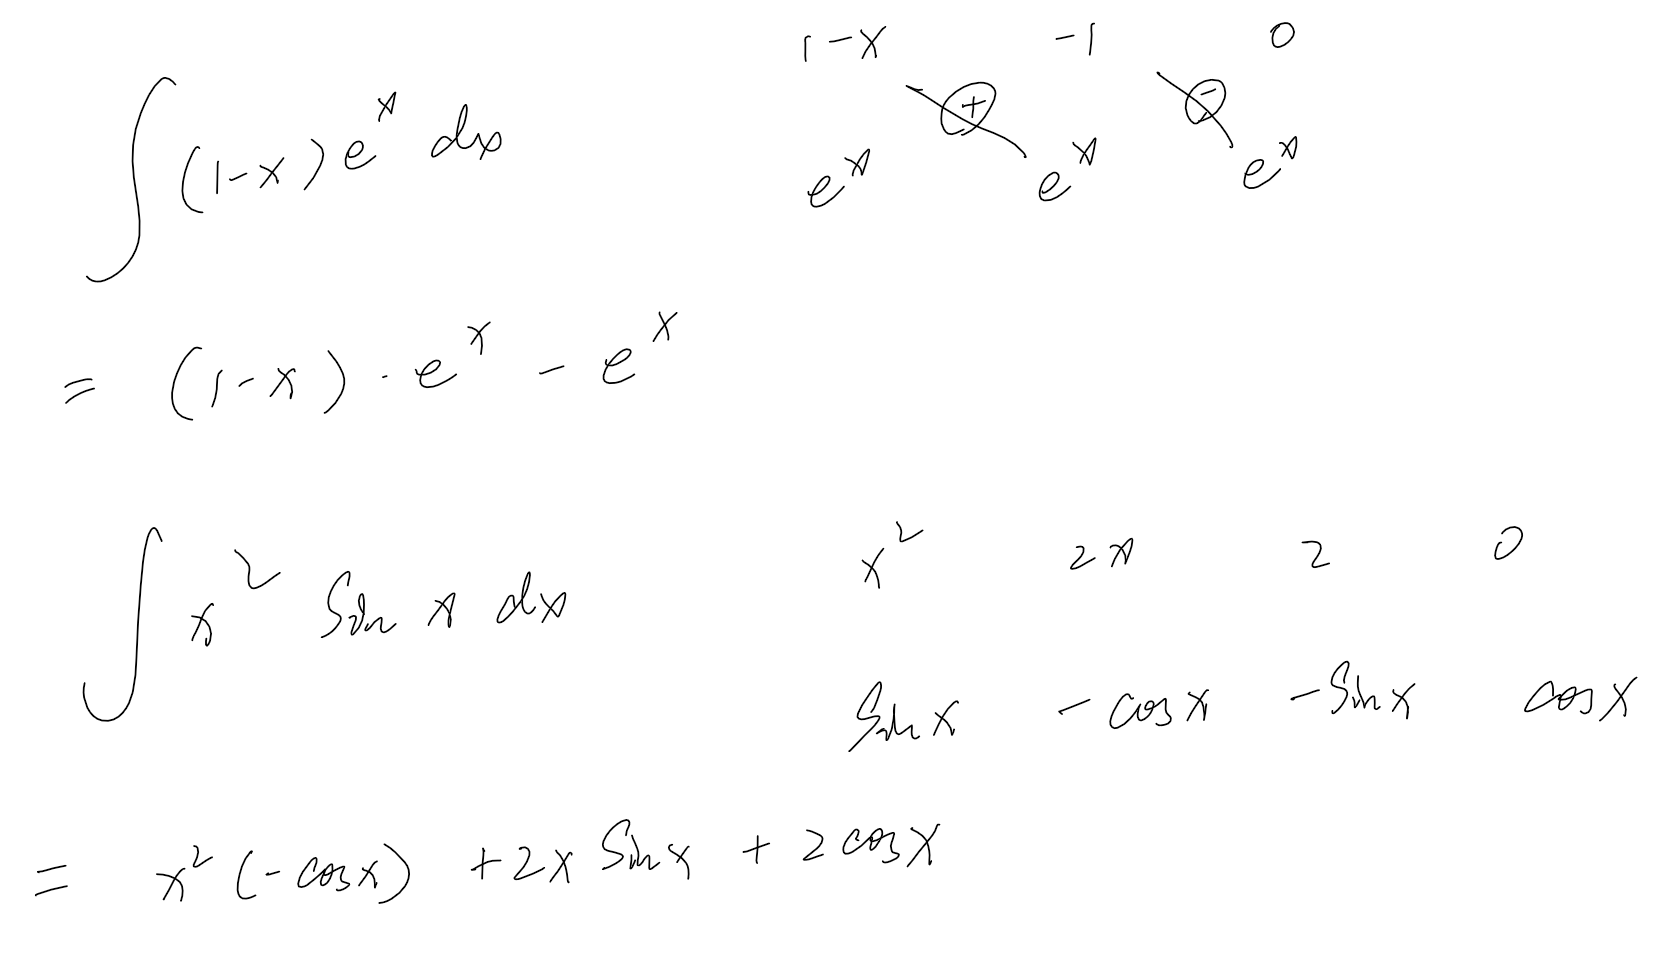
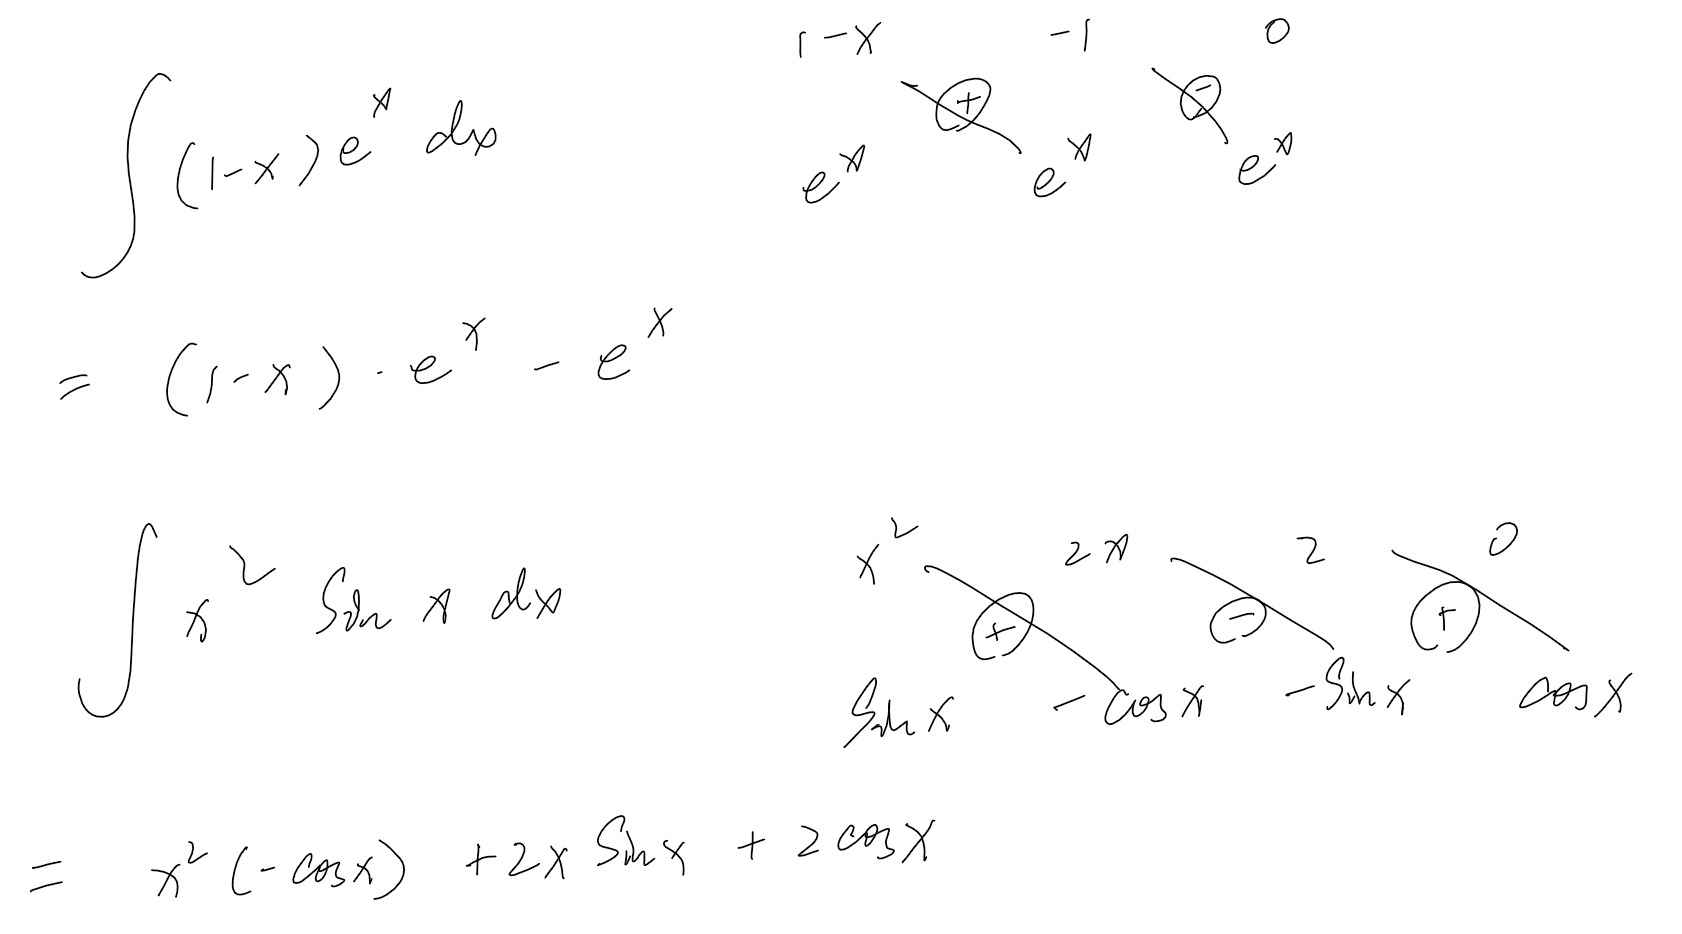
Luchao's auto-commitment using gitpull.sh

diff --git a/calculus/README.md b/calculus/README.md
@@ -10,7 +10,7 @@ calculate integration in 1min
 >$$
 >\int e^{a x} \cdot P_{n}(x) d x, \int \sin a x \cdot P_{n}(x) d x, \int \cos a x \cdot P_{n}(x) d x
 >$$
->Just take derivative of $P_{n}(x)$ and take integration of exponential functions/trigonometric functions and compile them up
+>Just take derivative of $P_{n}(x)$ and take integration of exponential functions/trigonometric functions and compile them up following certain rules
 >
 >e.g.
 >
